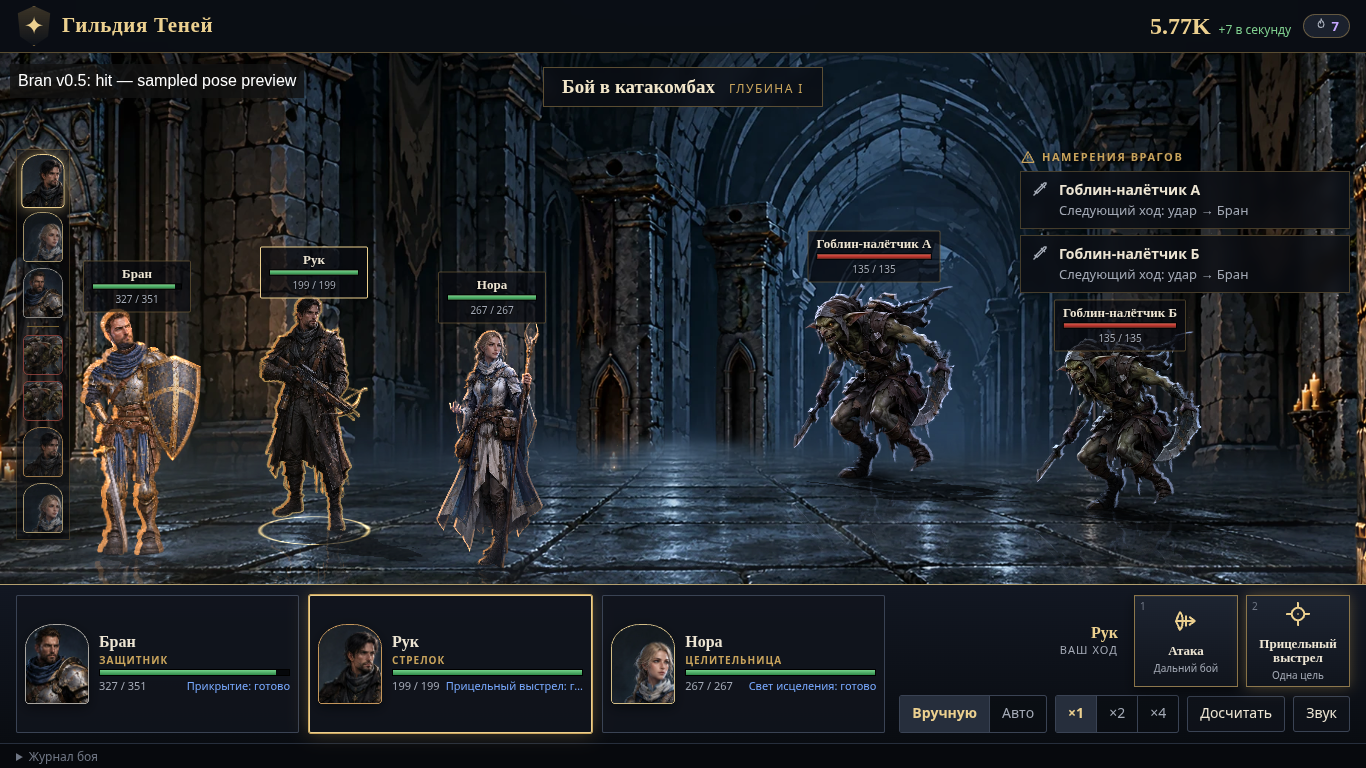
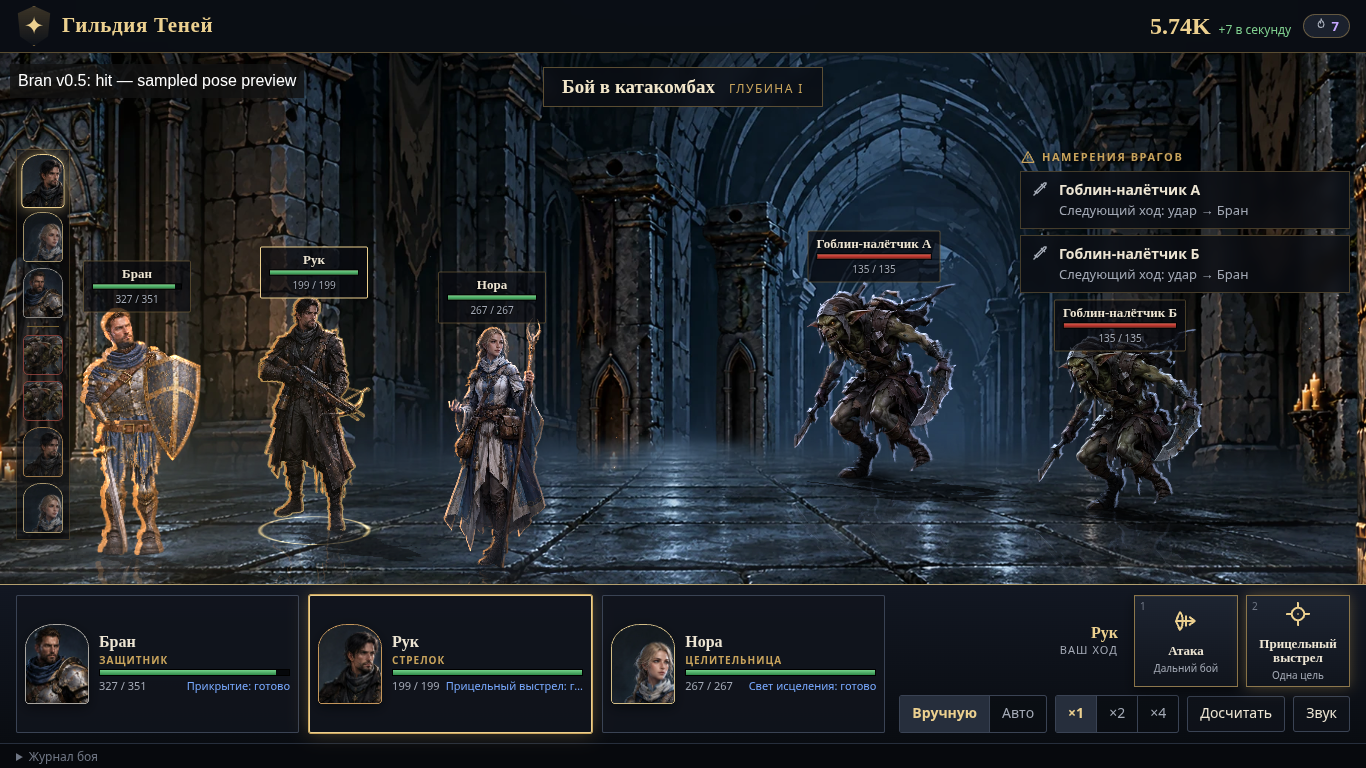
Publish refreshed Bran art review and complete gameplay evidence

diff --git a/docs/art-review/bran-v05/README.md b/docs/art-review/bran-v05/README.md
@@ -4,6 +4,8 @@
 
 [Черновой PR #5](https://github.com/zhopkot-bit/guild-of-shadows/pull/5) · [Подробный отчёт о тестах и недостатках](REPORT_RU.md) · [Согласованный концепт](concept.png) · [Исходники Брана](../../../art-sources/bran-v05) · [Исходники крипты](../../../art-sources/crypt-v05)
 
+Обновлено 27.10.2026: новый нагрудник и пояс без повторных ремней, отдельные тканевые детали, вторичное движение в attack/death/victory. [Сборка слоёв крупным планом](bind-pose.png) — техническая поза, не оригинальный мастер.
+
 ## В настоящей игре
 
 ![Бран и крипта, 1920×1080, WebGL](webgl-bran-game-1920x1080.png)
